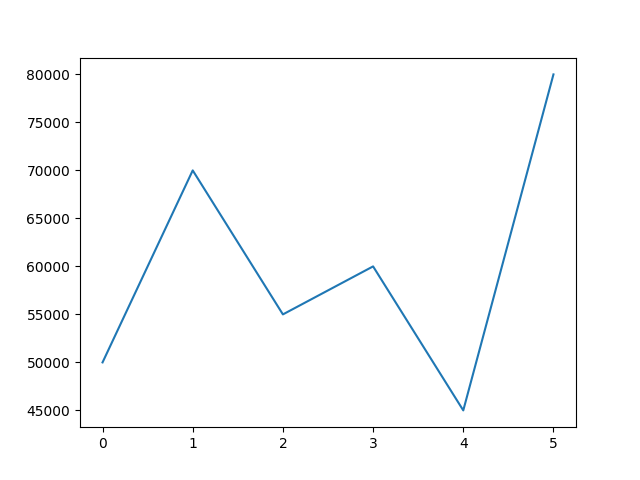
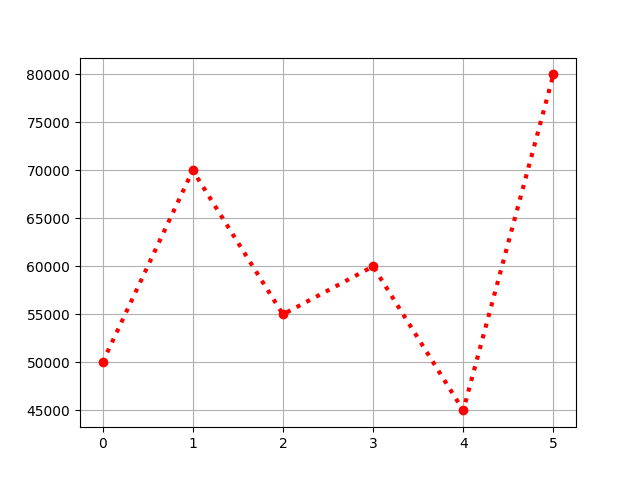
created

diff --git a/univerate.py b/univerate.py
@@ -4,6 +4,7 @@ data = {
     "salary" : [50000,70000,55000,60000,45000,80000]
 }
 df = pd.DataFrame(data)
-plt.plot(df["salary"])
+plt.plot(df["salary"],color = "red",marker ="o", linestyle= ":", linewidth="3")
+plt.grid()
 plt.show()
 #Refer figure 2
